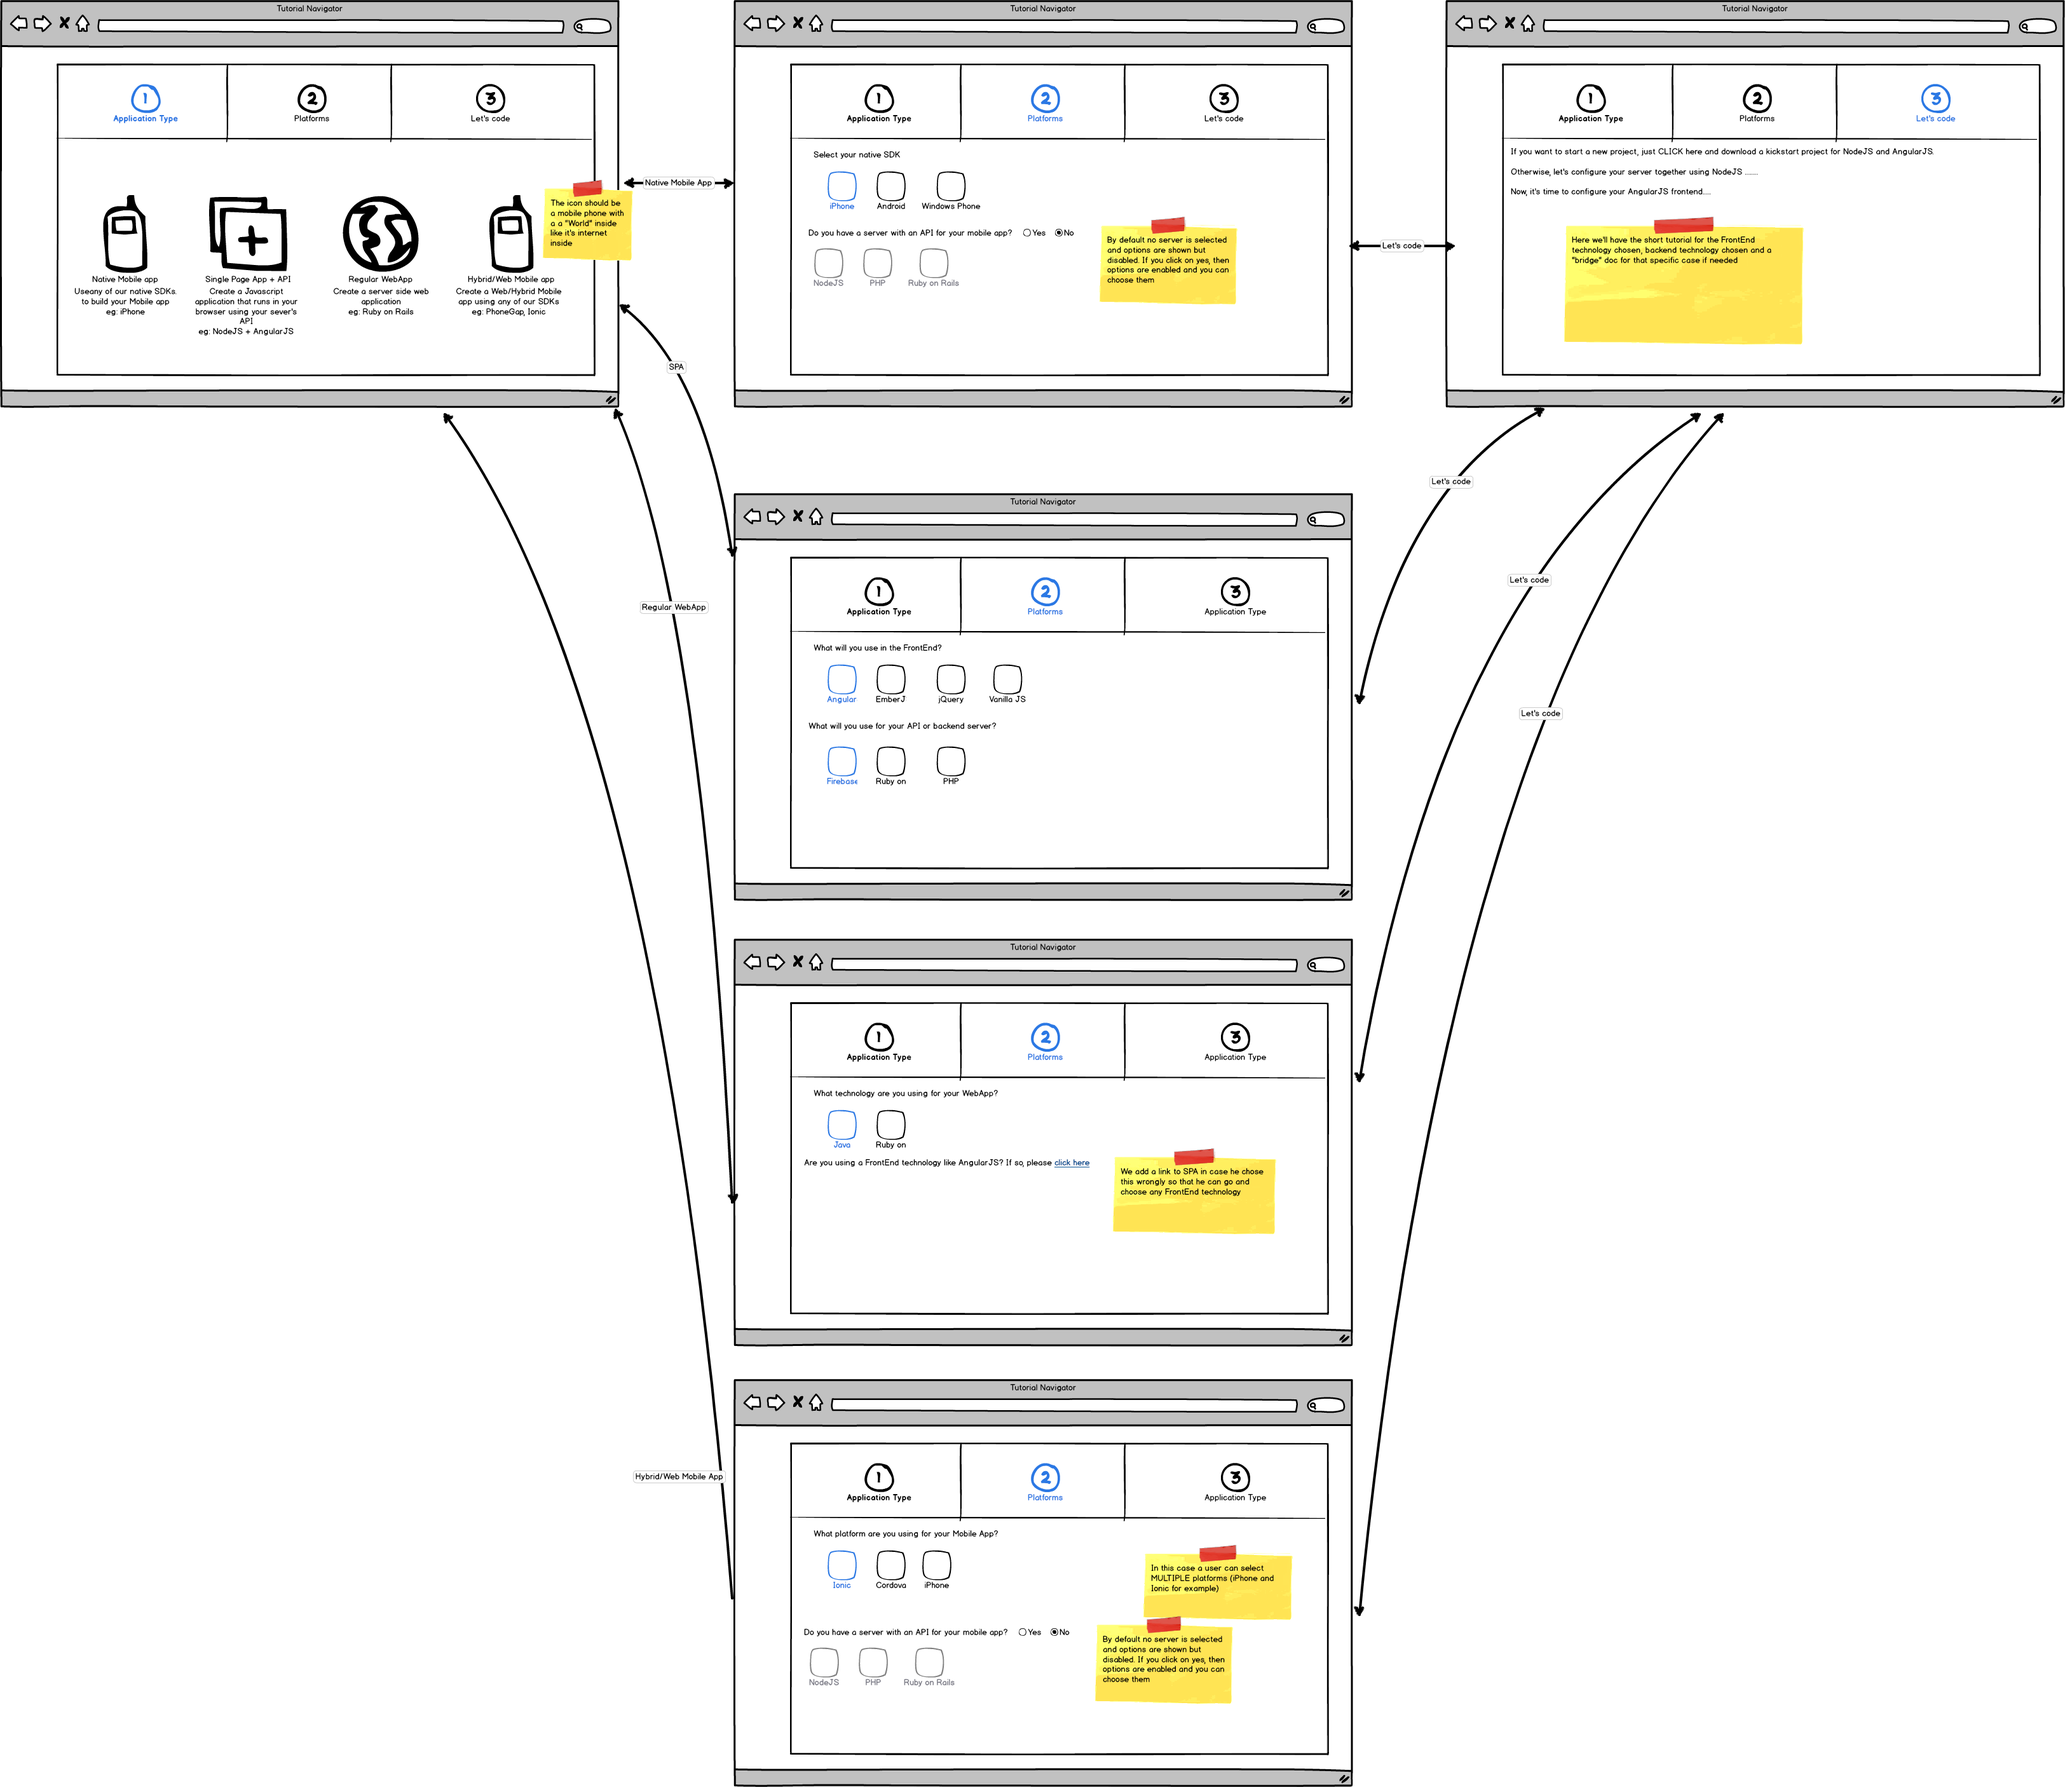
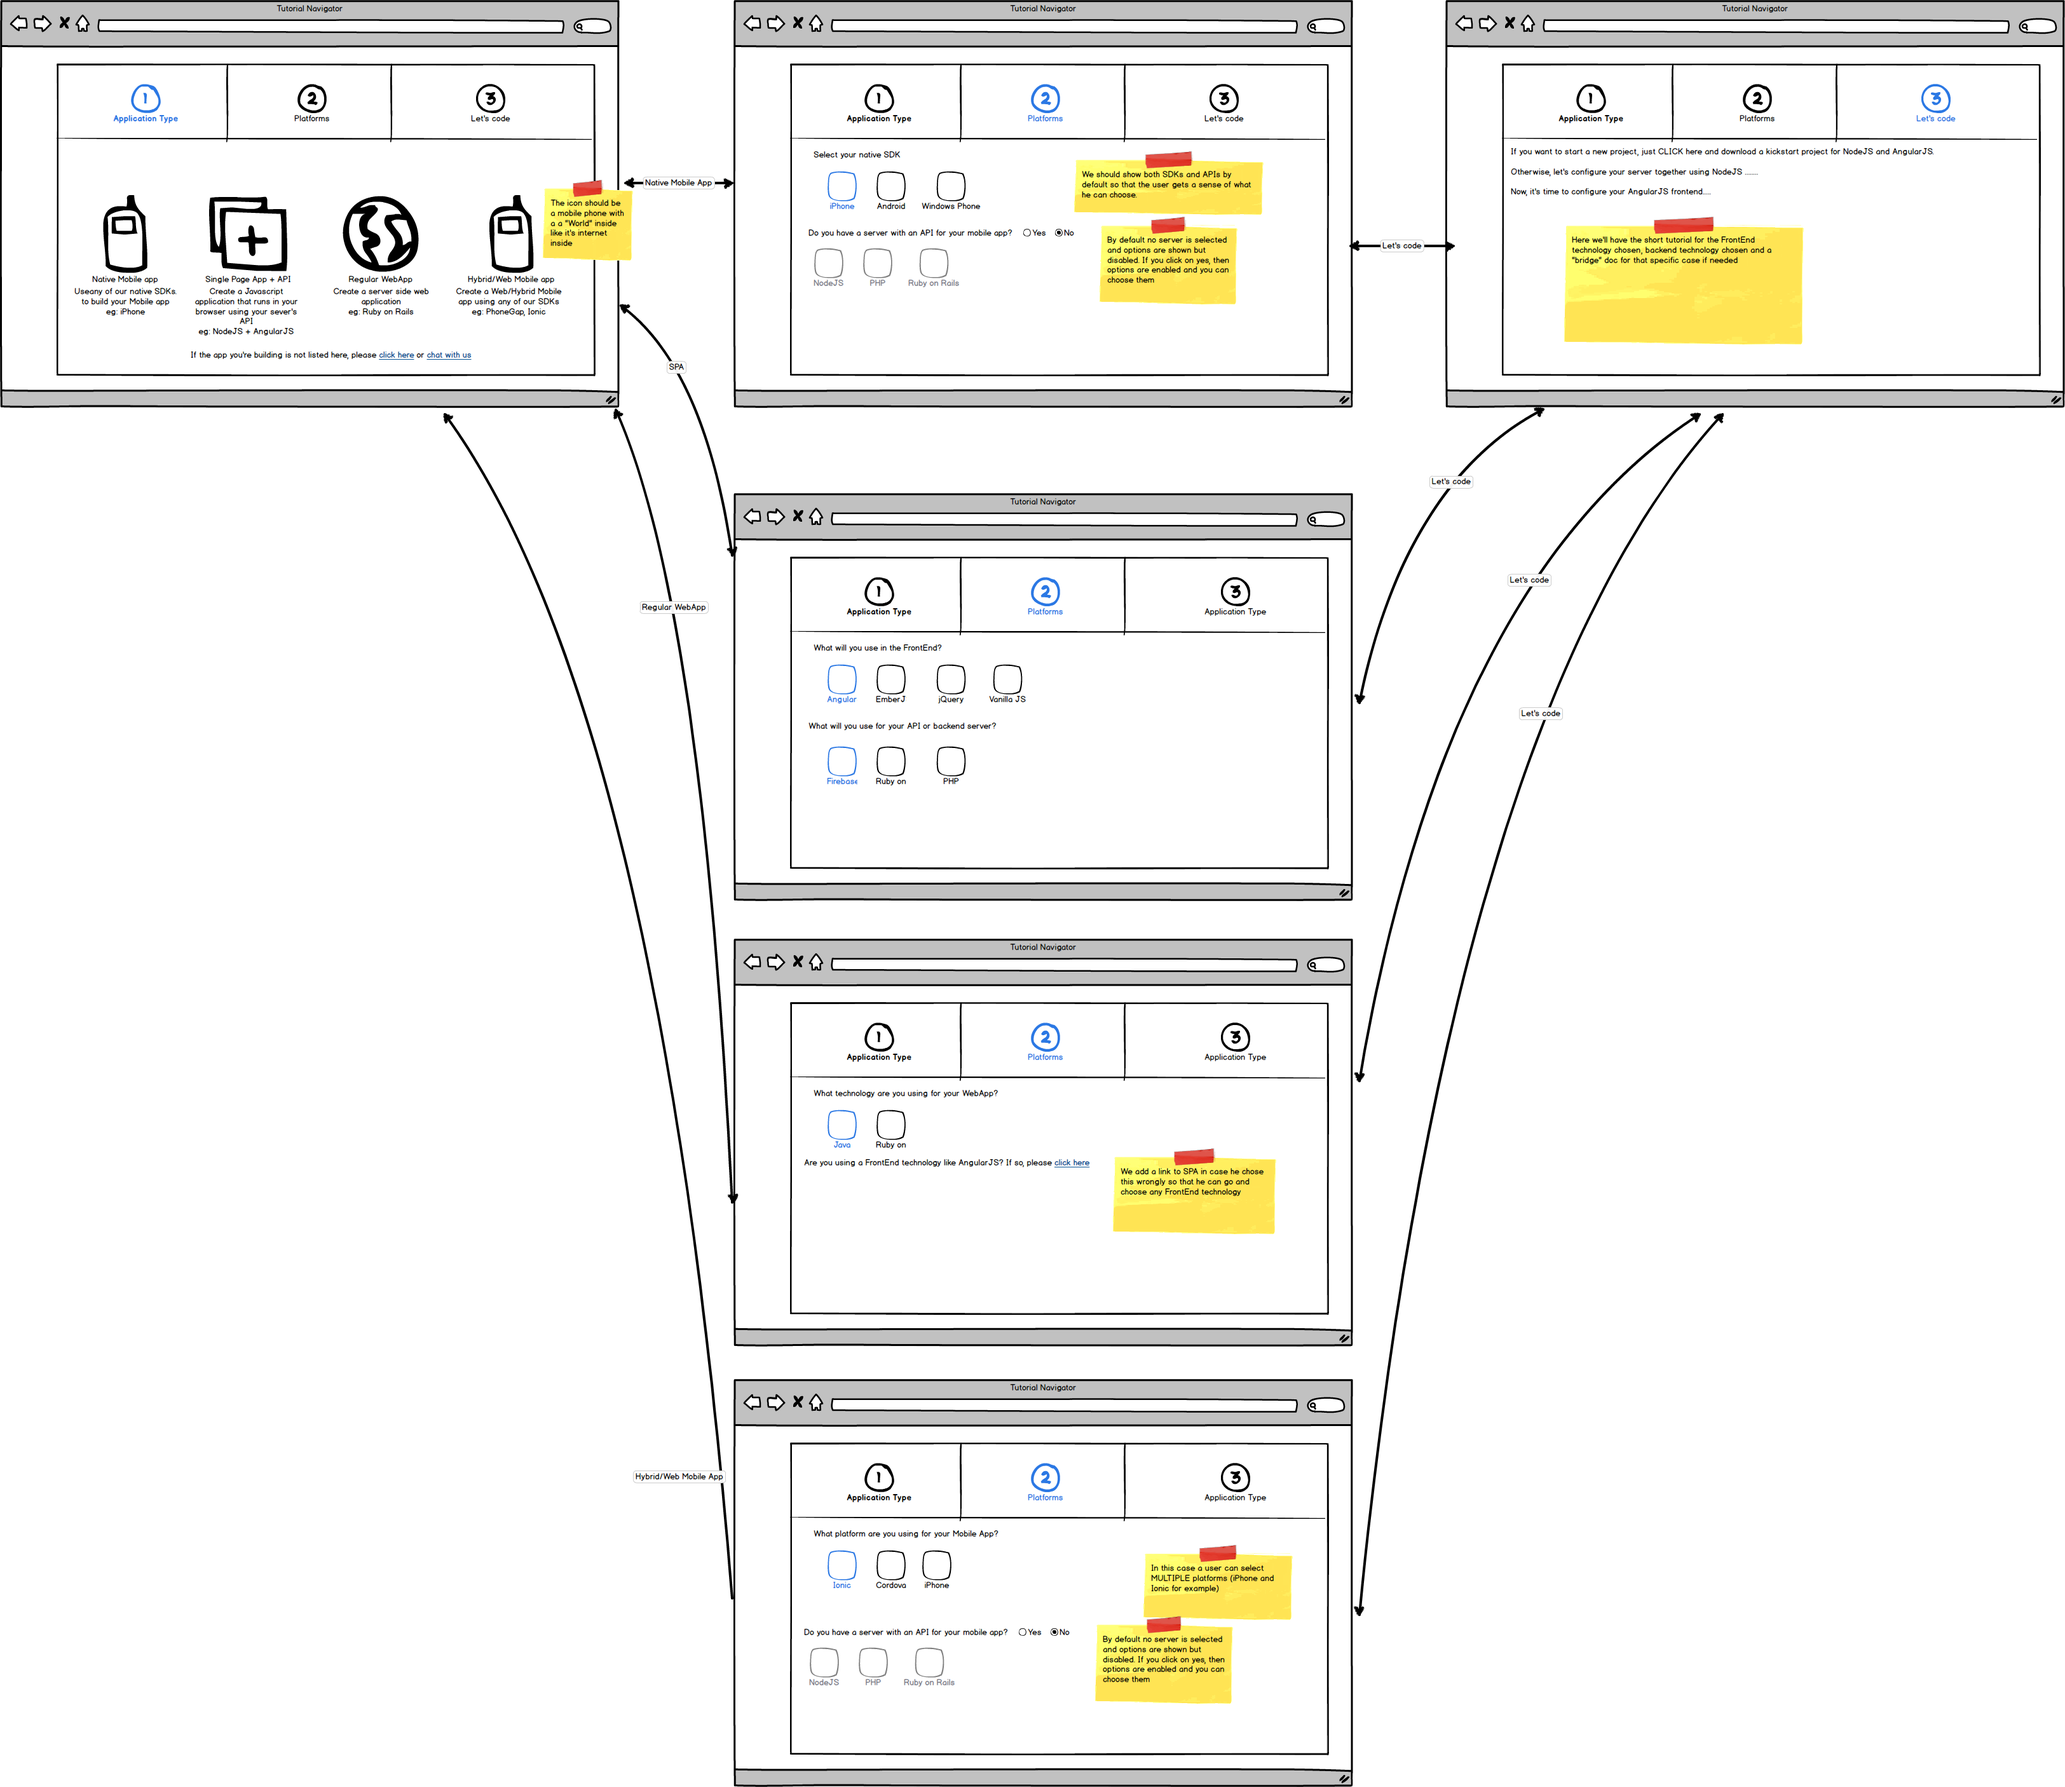
Updated documentation and added markdown for documentation

diff --git a/docs/App texts and options.md b/docs/App texts and options.md
@@ -1,0 +1,117 @@
+# Application Types
+## Native Mobile app
+**Desc**: Use any of our native SDKs to build your Mobile app.
+
+eg: iPhone SDK
+### Please choose your native SDK
+* iOS
+* Android
+* Windows Phone
+* Xamarin
+
+### Will your mobile app connect to an external API or server?
+
+#### Backend Platform
+* Node.js
+* Ruby
+* Java
+* PHP with Laravel
+* PHP
+* Python
+* WCF (API Only)
+* ASP .NET
+* ASP .NET (Owin)
+* ServiceStack
+
+#### 3rd party API
+* AWS
+* Firebase
+* Windows Azure Mobile
+
+## Single Page App + API
+**Desc**: Create a Javascript application that runs in your browser using your sever's API.
+
+eg: NodeJS + AngularJS
+
+### Please choose your FrontEnd technology
+
+* AngularJS
+* EmberJS
+* jQuery
+* Vanilla JS
+* Generic SPA
+
+### Please choose the Backend platform or API you'll use
+
+#### Backend Platform
+* Node.js
+* Ruby
+* Java
+* PHP with Laravel
+* PHP
+* Python
+* WCF (API Only)
+* ASP .NET
+* ASP .NET (Owin)
+* ServiceStack
+
+#### 3rd party API
+* AWS
+* Firebase
+* Windows Azure Mobile
+
+## Regular WebApp
+**Desc**: Create a server side WebApplication using any of our SDKs.
+
+eg: Ruby on Rails
+
+### Please choose the Backend platform you'll use
+
+* Node.js
+* Ruby
+* Java
+* PHP with Laravel
+* PHP
+* Python
+* WCF (API Only)
+* ASP .NET
+* ASP .NET (Owin)
+* ServiceStack
+
+Are you using a FrontEnd technology like AngularJS or Ember? If you do, [please click here](http://go.to.spa/)
+
+
+## Hybrid/Web Mobile app
+**Desc**: Create a Web/Hybrid Mobile app using any of our SDKs
+
+eg: PhoneGap, Ionic
+### Please choose your native SDK
+* Cordova
+* PhoneGap
+* Ionic Framework
+
+### Will your mobile app connect to an external API or server?
+
+#### Backend Platform
+* Node.js
+* Ruby
+* Java
+* PHP with Laravel
+* PHP
+* Python
+* WCF (API Only)
+* ASP .NET
+* ASP .NET (Owin)
+* ServiceStack
+
+#### 3rd party API
+* AWS
+* Firebase
+* Windows Azure Mobile
+
+
+
+
+
+
+
